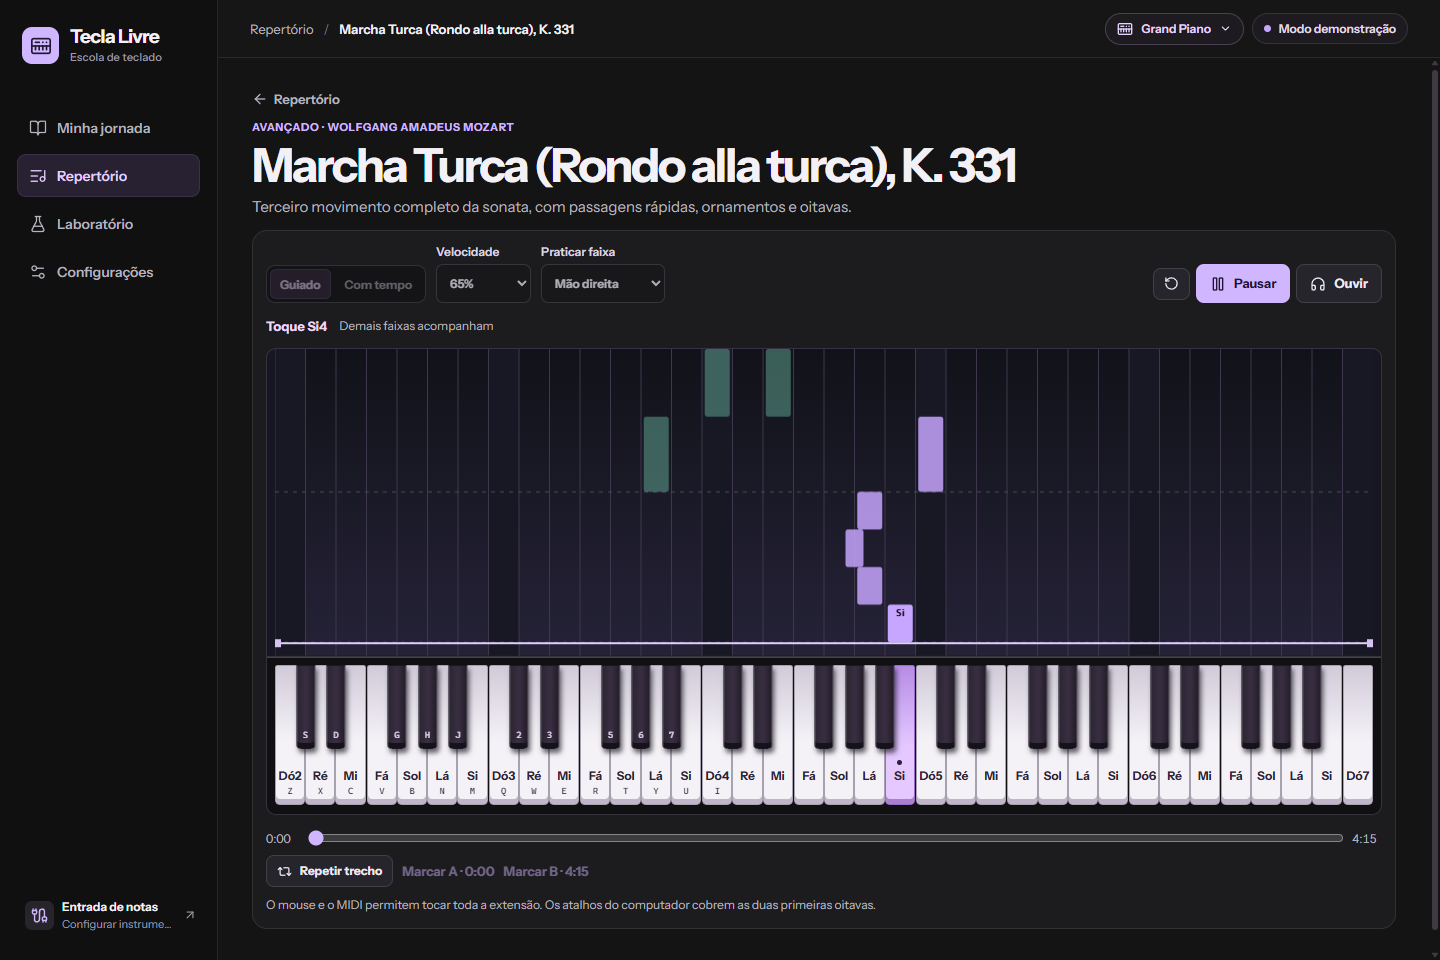
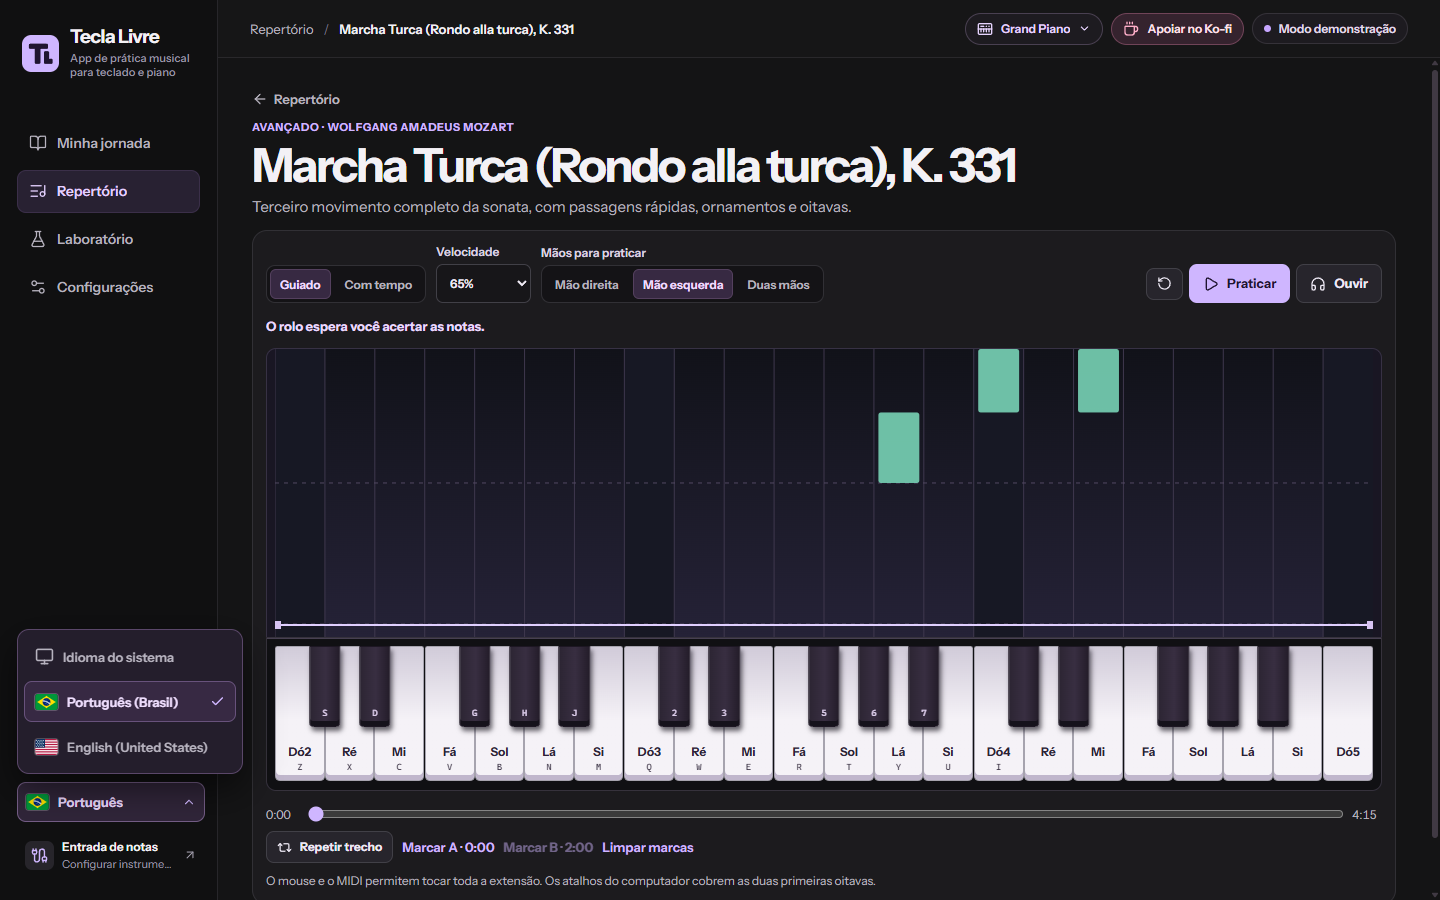
Publica o download e as novidades da rc.5

diff --git a/en/index.html b/en/index.html
@@ -12,7 +12,7 @@
   <link rel="alternate" hreflang="x-default" href="https://teclalivre.github.io/">
   <link rel="icon" type="image/svg+xml" href="../assets/marca.svg">
   <link rel="stylesheet" href="../styles.css?v=support-button">
-  <script src="../release-info.js?v=1.0.0-rc.4" defer></script>
+  <script src="../release-info.js?v=1.0.0-rc.5" defer></script>
   <script src="../site.js?v=language-picker" defer></script>
 </head>
 <body>
@@ -36,8 +36,8 @@
         <svg class="language-chevron" width="14" height="14" viewBox="0 0 16 16" fill="none" aria-hidden="true"><path d="m4 6 4 4 4-4" stroke="currentColor" stroke-width="1.5" stroke-linecap="round" stroke-linejoin="round"/></svg>
       </summary>
       <ul class="language-options" aria-label="Languages">
-        <li><a href="../?lang=pt-BR&amp;v=1.0.0-rc.4" lang="pt-BR" hreflang="pt-BR"><img class="language-flag" src="../assets/flag-br.svg" width="22" height="15" alt=""> Português (Brasil)</a></li>
-        <li><a href="./?lang=en-US&amp;v=1.0.0-rc.4" lang="en-US" hreflang="en-US" aria-current="page"><img class="language-flag" src="../assets/flag-us.svg" width="22" height="15" alt=""> English (US)</a></li>
+        <li><a href="../?lang=pt-BR&amp;v=1.0.0-rc.5" lang="pt-BR" hreflang="pt-BR"><img class="language-flag" src="../assets/flag-br.svg" width="22" height="15" alt=""> Português (Brasil)</a></li>
+        <li><a href="./?lang=en-US&amp;v=1.0.0-rc.5" lang="en-US" hreflang="en-US" aria-current="page"><img class="language-flag" src="../assets/flag-us.svg" width="22" height="15" alt=""> English (US)</a></li>
       </ul>
     </details>
   </header>
@@ -55,8 +55,8 @@
         <p class="download-version" data-version></p>
       </div>
       <figure class="hero-image">
-        <img src="assets/turkish-march.png" width="1440" height="960" alt="Turkish March in Guided mode, with colored notes falling toward the on-screen keyboard">
-        <figcaption>Turkish March · Right hand</figcaption>
+        <img src="assets/turkish-march.png?v=1.0.0-rc.5" width="1440" height="900" alt="Turkish March in Guided mode with the left hand selected and the language menu open">
+        <figcaption>Turkish March · Left hand</figcaption>
       </figure>
     </section>
 
@@ -67,12 +67,12 @@
           <article>
             <img src="assets/my-progress.png" width="1440" height="960" loading="lazy" alt="My progress screen with lessons grouped by module">
             <h3>41 lessons in English and Portuguese</h3>
-            <p>Learn rhythm, sight-reading, chords, and accompaniment with demonstrations and exercises.</p>
+            <p>Learn rhythm, sight-reading, chords, and accompaniment. Switch languages from the sidebar at any time.</p>
           </article>
           <article>
             <img src="assets/song-library.png" width="1440" height="960" loading="lazy" alt="Advanced songs by Mozart, Debussy, and Scott Joplin in the song library">
             <h3>22 songs to practice</h3>
-            <p>Practice one hand at a time, loop sections, and pick up where you left off. You can also import your own MIDI files.</p>
+            <p>Choose the right hand, left hand, or both in songs with separate tracks. Loop sections or import your own MIDI files.</p>
           </article>
           <article>
             <img src="assets/chord-library.png" width="1440" height="960" loading="lazy" alt="Chord lab with a C dominant ninth chord highlighted on the keyboard">

diff --git a/index.html b/index.html
@@ -12,7 +12,7 @@
   <link rel="alternate" hreflang="x-default" href="https://teclalivre.github.io/">
   <link rel="icon" type="image/svg+xml" href="assets/marca.svg">
   <link rel="stylesheet" href="styles.css?v=support-button">
-  <script src="release-info.js?v=1.0.0-rc.4" defer></script>
+  <script src="release-info.js?v=1.0.0-rc.5" defer></script>
   <script src="site.js?v=language-picker" defer></script>
 </head>
 <body>
@@ -36,8 +36,8 @@
         <svg class="language-chevron" width="14" height="14" viewBox="0 0 16 16" fill="none" aria-hidden="true"><path d="m4 6 4 4 4-4" stroke="currentColor" stroke-width="1.5" stroke-linecap="round" stroke-linejoin="round"/></svg>
       </summary>
       <ul class="language-options" aria-label="Idiomas">
-        <li><a href="./?lang=pt-BR&amp;v=1.0.0-rc.4" lang="pt-BR" hreflang="pt-BR" aria-current="page"><img class="language-flag" src="assets/flag-br.svg" width="22" height="15" alt=""> Português (Brasil)</a></li>
-        <li><a href="en/?lang=en-US&amp;v=1.0.0-rc.4" lang="en-US" hreflang="en-US"><img class="language-flag" src="assets/flag-us.svg" width="22" height="15" alt=""> English (US)</a></li>
+        <li><a href="./?lang=pt-BR&amp;v=1.0.0-rc.5" lang="pt-BR" hreflang="pt-BR" aria-current="page"><img class="language-flag" src="assets/flag-br.svg" width="22" height="15" alt=""> Português (Brasil)</a></li>
+        <li><a href="en/?lang=en-US&amp;v=1.0.0-rc.5" lang="en-US" hreflang="en-US"><img class="language-flag" src="assets/flag-us.svg" width="22" height="15" alt=""> English (US)</a></li>
       </ul>
     </details>
   </header>
@@ -55,8 +55,8 @@
         <p class="download-version" data-version></p>
       </div>
       <figure class="hero-image">
-        <img src="assets/marcha-turca.png" width="1440" height="960" alt="Marcha Turca em modo guiado, com notas coloridas descendo sobre o teclado virtual">
-        <figcaption>Marcha Turca · Mão direita</figcaption>
+        <img src="assets/marcha-turca.png?v=1.0.0-rc.5" width="1440" height="900" alt="Marcha Turca em modo guiado com a mão esquerda selecionada e o menu de idioma aberto">
+        <figcaption>Marcha Turca · Mão esquerda</figcaption>
       </figure>
     </section>
 
@@ -67,12 +67,12 @@
           <article>
             <img src="assets/jornada.png" width="1440" height="960" loading="lazy" alt="Minha jornada, com aulas organizadas por módulos e progresso salvo">
             <h3>41 aulas em português e inglês</h3>
-            <p>Ritmo, leitura de partitura, acordes e acompanhamento, com demonstrações e exercícios.</p>
+            <p>Estude ritmo, leitura, acordes e acompanhamento. Troque o idioma pela barra lateral a qualquer momento.</p>
           </article>
           <article>
             <img src="assets/repertorio.png" width="1440" height="960" loading="lazy" alt="Repertório avançado com peças de Mozart, Debussy e Scott Joplin">
             <h3>22 músicas para praticar</h3>
-            <p>Pratique uma mão por vez, repita trechos e retome de onde parou. Também dá para importar arquivos MIDI.</p>
+            <p>Escolha a mão direita, a esquerda ou as duas nas músicas com faixas separadas. Repita trechos ou importe seus próprios MIDIs.</p>
           </article>
           <article>
             <img src="assets/acordes.png" width="1440" height="960" loading="lazy" alt="Laboratório com acorde de Dó com sétima e nona destacado no teclado">

diff --git a/release-info.js b/release-info.js
@@ -1,1 +1,1 @@
-window.teclaLivreRelease = {"version":"1.0.0-rc.4","filename":"Tecla-Livre-1.0.0-rc.4-Windows-x64","sizeMB":122,"installer":true}
+window.teclaLivreRelease = {"version":"1.0.0-rc.5","filename":"Tecla-Livre-1.0.0-rc.5-Windows-x64","sizeMB":122,"installer":true}
